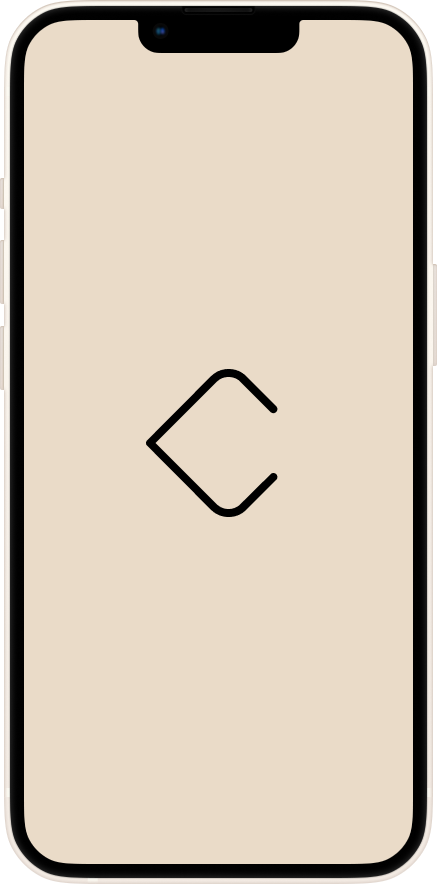
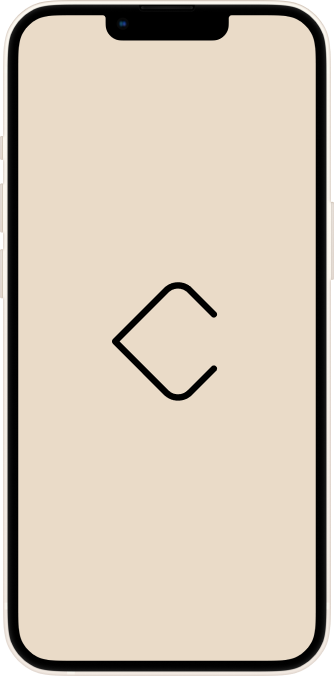
Changement des images pour la page Home

diff --git a/src/components/pages/home/Home.vue b/src/components/pages/home/Home.vue
@@ -60,9 +60,11 @@ import WaveDivider from "@/components/header/WaveHeader.vue";
 <style scoped>
 @media (max-width: 1000px) {
   .container_presentation_logo{
+    display: flex;
     flex-direction: column;
     justify-content: center;
     align-items: center;
+    width: auto;
   }
 }
 
@@ -117,10 +119,6 @@ display: flex;
   margin-bottom: 100px;
 }
 
-.app-screenshot img {
-  max-width: 100%;
-}
-
 
 .footer {
   margin-top: 60px;
@@ -131,7 +129,7 @@ display: flex;
   display: flex;
   justify-content: center;
   align-items: center;
-  width: 30%;
+  width: 100%;
   margin: 0 auto;
 }
 
@@ -147,11 +145,9 @@ display: flex;
 }
 .presentation-section-image {
   display: flex;
-  max-width: 50%;
-  width: 100%;
   justify-content: center;
   align-items: center;
-  height: 100%;
+  width: 30%;
 }
 
 

diff --git a/src/App.vue b/src/App.vue
@@ -47,7 +47,7 @@
                 <v-btn style="cursor: pointer" icon to="/">
                     <v-avatar size="30" image="/castin/castin-rounded-icon.png"/>
                 </v-btn>
-                
+
             </template>
         </v-app-bar>
         <v-navigation-drawer
